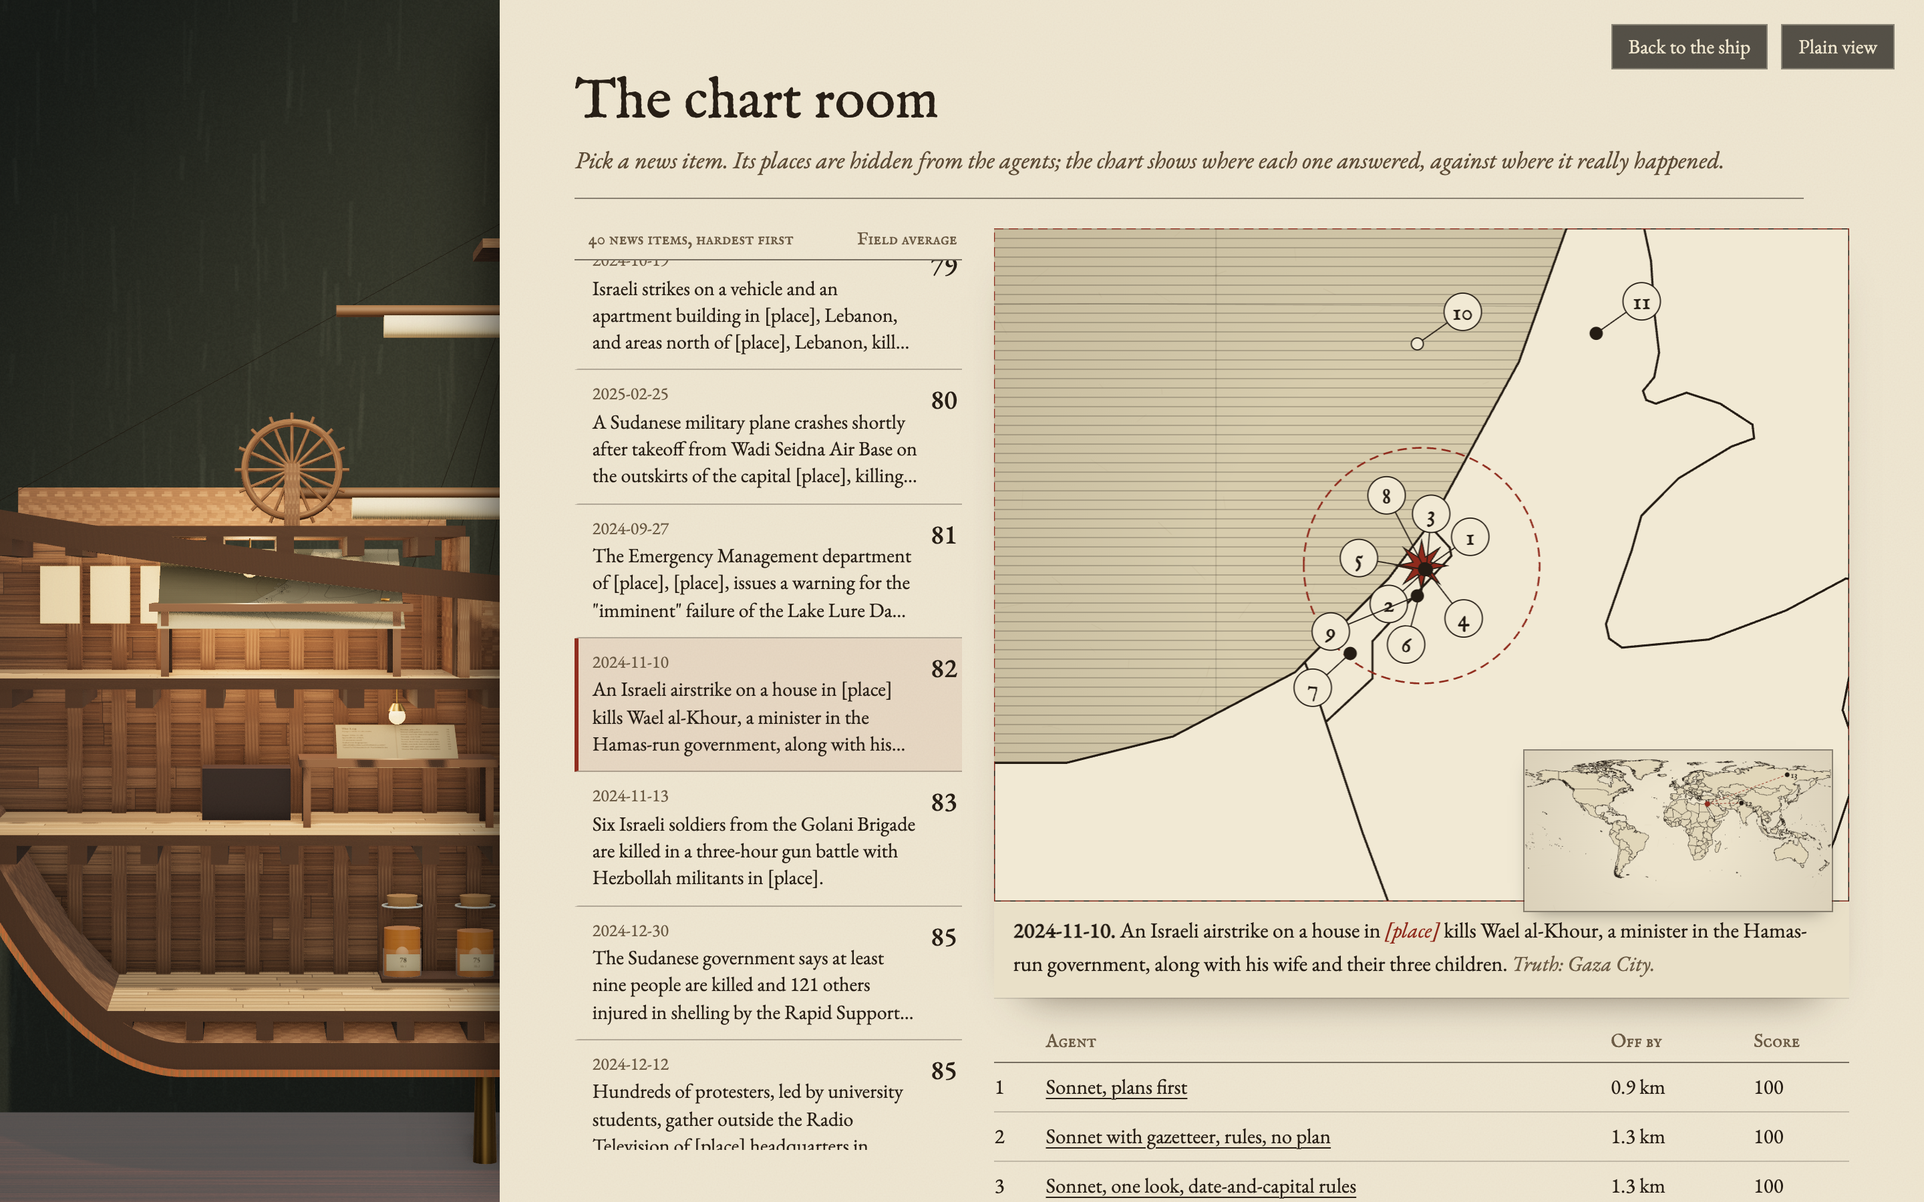
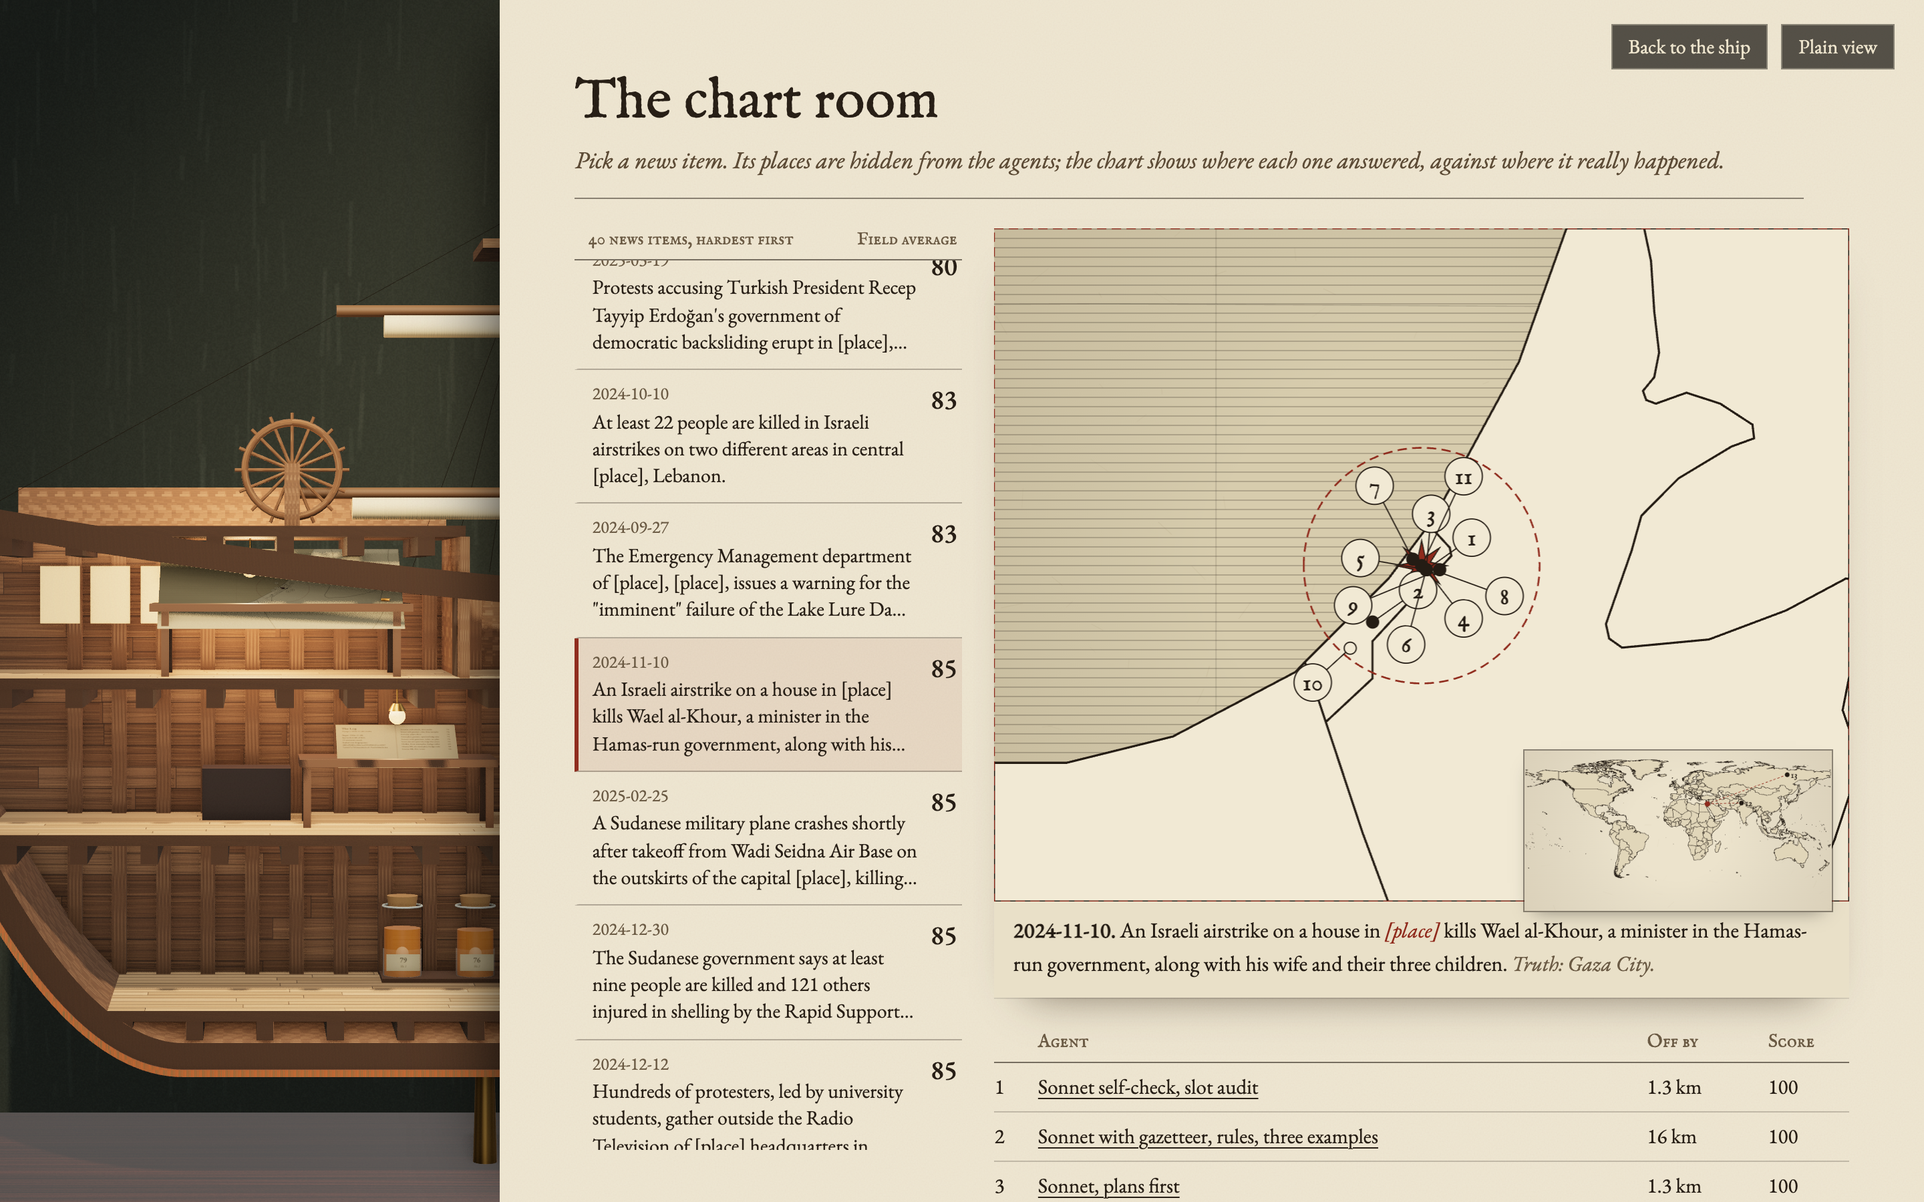
Voyage 2 in the README; the fossil locker and its tag tell the truth; the lineage fits three generations; the server survives a malformed path

diff --git a/app/src/rooms.ts b/app/src/rooms.ts
@@ -84,7 +84,9 @@ async function drawingRoom(el: HTMLElement, c: Ctx) {
 async function lineage(el: HTMLElement, c: Ctx) {
   const nodes = await api<Node[]>(`/voyages/${c.voyage.id}/lineage`, []);
   const gens = [...new Set(nodes.map(n => n.generation))].sort((a, b) => a - b);
-  const colW = 440, rowH = 92, top = 70, H = top + Math.max(...gens.map(g => nodes.filter(n => n.generation === g).length)) * rowH + 30, W = gens.length * colW + 40;
+  // columns share the folio's width; past about four generations the journal scrolls sideways
+  const avail = Math.max(600, el.clientWidth - 40), colW = Math.max(300, Math.min(440, Math.floor((avail - 30) / gens.length))), nodeW = colW - 120;
+  const rowH = 92, top = 70, H = top + Math.max(...gens.map(g => nodes.filter(n => n.generation === g).length)) * rowH + 30, W = gens.length * colW + 40;
   const pos = new Map<string, { x: number; y: number }>();
   gens.forEach((g, gi) => nodes.filter(n => n.generation === g).sort((a, b) => (b.mean ?? -1) - (a.mean ?? -1)).forEach((n, i) => pos.set(`${g}:${n.id}`, { x: 30 + gi * colW, y: top + i * rowH })));
   const hasChild = new Set(nodes.flatMap(n => n.parents.map(p => `${n.generation - 1}:${p}`)).concat(nodes.filter(n => n.kept).map(n => `${n.generation - 1}:${n.id}`)));
@@ -92,13 +94,13 @@ async function lineage(el: HTMLElement, c: Ctx) {
   let lines = '';
   for (const n of nodes) {
     const to = pos.get(`${n.generation}:${n.id}`)!;
-    for (const p of n.kept ? [n.id] : n.parents) { const from = pos.get(`${n.generation - 1}:${p}`); if (!from) continue; const x0 = from.x + 266, y0 = from.y + 26, x1 = to.x - 6, y1 = to.y + 26, mx = (x0 + x1) / 2; lines += `<path d="M${x0},${y0} C${mx},${y0} ${mx},${y1} ${x1},${y1}" class="${n.kept ? 'kept' : ''}"/>`; }
+    for (const p of n.kept ? [n.id] : n.parents) { const from = pos.get(`${n.generation - 1}:${p}`); if (!from) continue; const x0 = from.x + nodeW + 6, y0 = from.y + 26, x1 = to.x - 6, y1 = to.y + 26, mx = (x0 + x1) / 2; lines += `<path d="M${x0},${y0} C${mx},${y0} ${mx},${y1} ${x1},${y1}" class="${n.kept ? 'kept' : ''}"/>`; }
   }
   el.innerHTML = `<nav class="pages"><a href="#/drawing">The plates</a><a class="on" href="#/drawing/lineage">The lineage</a></nav>${head('The lineage', `Every agent of the voyage, one column per generation, best at the top. A line joins each agent to the ones it was bred from; a double line means it was kept unchanged. Agents with no line onward died out.`)}
-  <div class="journal"><div class="cols">${gens.map((g, gi) => `<div class="colhead" style="left:${30 + gi * colW}px">Generation ${g + 1}<small>best ${best(g) >= 0 ? pct(best(g)) : 'not raced'}</small></div>`).join('')}</div>
+  <div class="journal-wrap"><div class="journal" style="--node-w:${nodeW}px"><div class="cols">${gens.map((g, gi) => `<div class="colhead" style="left:${30 + gi * colW}px">Generation ${g + 1}<small>best ${best(g) >= 0 ? pct(best(g)) : 'not raced'}</small></div>`).join('')}</div>
   <svg class="ink" width="${W}" height="${H}" viewBox="0 0 ${W} ${H}">${lines}</svg>
   ${nodes.map(n => { const p = pos.get(`${n.generation}:${n.id}`)!, dead = n.generation < gens.at(-1)! && !hasChild.has(`${n.generation}:${n.id}`); return `<a class="node ${dead ? 'dead' : ''}" style="left:${p.x}px;top:${p.y}px" href="#/drawing/${encodeURIComponent(n.id)}" title="${esc(n.reason ?? '')}"><canvas width="104" height="104" data-n="${esc(n.id)}"></canvas><span><b>${esc(n.name)}</b><em>${n.mean === null ? 'racing' : pct(n.mean)}</em></span></a>`; }).join('')}
-  </div>
+  </div></div>
   ${nodes.filter(n => n.generation > 0 && !n.kept).length ? `<h2 class="why">Why each child was made</h2><ol class="reasons">${nodes.filter(n => n.generation > 0 && !n.kept).map(n => `<li><b>${esc(n.name)}</b>, from ${n.parents.map(p => esc(nodes.find(x => x.id === p)?.name ?? p)).join(' and ')}: ${esc(n.reason ?? '')}</li>`).join('')}</ol>` : '<p class="soft">Only the first generation has raced so far. The designer breeds the next one from what it can see of this one.</p>'}`;
   el.querySelector<HTMLElement>('.journal')!.style.height = `${H}px`; el.querySelector<HTMLElement>('.journal')!.style.width = `${W}px`;
   el.querySelectorAll<HTMLCanvasElement>('.node canvas').forEach(cv => { const n = nodes.find(x => x.id === cv.dataset.n)!; const k = cv.getContext('2d')!; organism(k, n.genome ? { ...n.genome, id: n.id } : { id: n.id, tools: [], workflow: { shape: 'control' }, memory: { examples: 0 }, model: 'none' }, 52, 52, 30); });

diff --git a/app/src/main.ts b/app/src/main.ts
@@ -28,6 +28,7 @@ const genN = full?.generations.filter(g => g.generation >= 0).at(-1)?.generation
 const gen = full ? await api<Generation>(`/voyages/${full.id}/generations/${genN}`) : null;
 const telling = full ? await api<Telling | null>(`/voyages/${full.id}/generations/${genN}/telling`, null) : null;
 const es = gen ? entrants(gen) : [];
+const fossilRecords = full ? await api<{ name: string; race: { score: number; teacher: number } }[]>(`/voyages/${full.id}/fossils`, []) : [];
 
 const { ship, lamps } = buildShip(room);
 if (full && gen) furnish(room, ship, { voyage: full, entrants: es, telling, generation: genN });
@@ -39,7 +40,7 @@ const TAGS: Record<RoomId, { name: string; line: string }> = {
   drawing: { name: 'The drawing room', line: lead ? `Leading: ${lead.name}, ${pct(lead.mean)} of 100` : 'No agents drawn yet' },
   specimens: { name: 'The hold', line: `${es.filter(e => !e.control).length} agents and ${es.filter(e => e.control).length} controls, each in its jar` },
   log: { name: 'The log', line: full ? `$${full.spent.toFixed(2)} spent; the sealed test fingerprinted` : 'No voyage yet' },
-  fossils: { name: 'The fossil locker', line: 'Empty: no skill has been fossilised yet' },
+  fossils: { name: 'The fossil locker', line: fossilRecords.length ? fossilRecords.map(f => `${f.name}: ${pct(f.race.score)} against its teacher's ${pct(f.race.teacher)}`).join('; ') : 'Empty: no skill has been fossilised yet' },
   settings: { name: 'The forecastle', line: 'Settings' },
 };
 const layer = document.getElementById('tags')!;

diff --git a/tools/ui-test.ts b/tools/ui-test.ts
@@ -24,6 +24,8 @@ try {
   const tags = await page.$$eval('.tag', els => els.map(e => e.textContent ?? ''));
   expect('the ship has a tag for each of its six rooms', tags.length === 6, tags.map(t => t.split(/[A-Z]/)[0]).join(''));
   expect('the drawing room tag names the real leader and score', tags.some(t => t.includes(leadName) && t.includes(String(pct(lead.mean)))), `${leadName} ${pct(lead.mean)}`);
+  const fossilsNow = await api(`/voyages/${v.id}/fossils`);
+  expect('the fossil locker tag tells the truth about its fossils', fossilsNow.length ? tags.some(t => fossilsNow.every((f: any) => t.includes(`${f.name}: ${pct(f.race.score)}`))) : tags.some(t => t.includes('Empty')));
   expect('the log tag shows the real spend', tags.some(t => t.includes(`$${full.spent.toFixed(2)}`)));
   const plaque = await page.textContent('#plaque');
   expect('the plaque gives the real run count', plaque!.includes(`${gen.runs} runs`), plaque!.slice(0, 90));

diff --git a/test/server.test.ts b/test/server.test.ts
@@ -112,3 +112,11 @@ test('minor: a voyage on local models only expects runs from the controls it rea
   // the one-Claude-call control is left out on a local-only voyage, so two controls, not three
   assert.equal(g.expected, (g.genomes.length + 2) * 4);
 });
+
+test('a malformed path is refused, and the server keeps running', async () => {
+  const { request } = await import('node:http');
+  const port = (server.address() as { port: number }).port;
+  const status = await new Promise<number>((ok, fail) => { const r = request({ host: '127.0.0.1', port, path: '//' }, res => { res.resume(); ok(res.statusCode!); }); r.on('error', fail); r.end(); });
+  assert.equal(status, 400);
+  assert.equal((await fetch(`${base}/api/settings`)).status, 200);
+});

diff --git a/app/index.html b/app/index.html
@@ -102,7 +102,8 @@
   svg.ink { position: absolute; left: 0; top: 0; }
   svg.ink path { fill: none; stroke: #241c14; stroke-width: 1; opacity: .7; }
   svg.ink path.kept { stroke-width: 3; opacity: .55; }
-  .node { position: absolute; display: flex; align-items: center; gap: 4px; width: 260px; text-decoration: none; }
+  .journal-wrap { overflow-x: auto; overflow-y: visible; padding-bottom: 8px; }
+  .node { position: absolute; display: flex; align-items: center; gap: 4px; width: var(--node-w, 260px); text-decoration: none; }
   .journal { padding-right: 20px; }
   .node canvas { width: 52px; height: 52px; }
   .node span { display: grid; font-size: 14.5px; line-height: 1.25; }

diff --git a/src/server.ts b/src/server.ts
@@ -146,7 +146,8 @@ async function file(res: ServerResponse, p: string) {
 
 export function serve(port = PORT): Server {
   const server = createServer(async (req, res) => {
-    const url = new URL(req.url ?? '/', 'http://x');
+    let url: URL;
+    try { url = new URL(req.url ?? '/', 'http://x'); } catch { res.writeHead(400); return res.end(); }
     const host = (req.headers.host ?? '').replace(/:\d+$/, '');
     if (!['127.0.0.1', 'localhost', '[::1]'].includes(host)) { res.writeHead(403); return res.end(); }
     if (req.method !== 'GET' && req.headers['x-beagle'] !== '1') return send(res, 403, { error: 'writes need the x-beagle header' });

diff --git a/README.md b/README.md
@@ -9,7 +9,7 @@
 <img alt="fossils" src="https://img.shields.io/badge/fossils-trained_on_this_Mac_with_MLX-8f2a1c?style=for-the-badge&labelColor=14110d"/>
 <br/>
 <img alt="proof" src="https://img.shields.io/badge/every_score-re--gradable_with_no_model_calls-b08a4a?style=for-the-badge&labelColor=14110d"/>
-<img alt="tests" src="https://img.shields.io/badge/tests-61_engine_%C2%B7_23_in_the_browser-8f2a1c?style=for-the-badge&labelColor=14110d"/>
+<img alt="tests" src="https://img.shields.io/badge/tests-74_engine_%C2%B7_25_in_the_browser-8f2a1c?style=for-the-badge&labelColor=14110d"/>
 <a href="LICENSE"><img alt="license" src="https://img.shields.io/badge/license-MIT-b08a4a?style=for-the-badge&labelColor=14110d"/></a>
 <br/>
 <img alt="engine" src="https://img.shields.io/badge/engine-TypeScript_%C2%B7_Node_22_%C2%B7_node%3Asqlite-7d7262?style=flat-square&labelColor=14110d"/>
@@ -22,7 +22,7 @@
 &nbsp;
 
 <a href="#what-it-does"><kbd> &nbsp; <strong>What it does</strong> &nbsp; </kbd></a> &nbsp;
-<a href="#the-first-voyage"><kbd> &nbsp; <strong>The first voyage</strong> &nbsp; </kbd></a> &nbsp;
+<a href="#the-voyage"><kbd> &nbsp; <strong>The voyage</strong> &nbsp; </kbd></a> &nbsp;
 <a href="#the-ship"><kbd> &nbsp; <strong>The ship</strong> &nbsp; </kbd></a> &nbsp;
 <a href="#why-you-can-trust-the-numbers"><kbd> &nbsp; <strong>Why you can trust the numbers</strong> &nbsp; </kbd></a> &nbsp;
 <a href="#run-it"><kbd> &nbsp; <strong>Run it</strong> &nbsp; </kbd></a>
@@ -47,21 +47,23 @@ All of it happens inside a museum section model of HMS Beagle, the ship Darwin s
 
 **Fossils.** The winner answers hundreds of unlabelled items. A local embedding model turns each item into numbers, and MLX trains a two-layer network to answer the way the winner did. The fossil is then judged on the same race items as everyone else, and reported straight, including when it is worse.
 
-## The first voyage
+## The voyage
 
-Everything here is from one real voyage, `v-2026-11-08-e1e972`, raced on 2026-11-08 for $17.22.
+Everything here is from one real voyage, `v-2026-11-08-c5c0ba`: three generations raced on 2026-11-08 for $13.88 of Claude usage. Every agent and control in a generation answered the same 40 news items.
 
-**Generation one** raced twelve hand-written agents. Sonnet answering in one go led at 75 out of 100, placing 23 of 40 items within 25 km. A free local Llama 8B scored 56. Two designs collapsed: Llama with the gazetteer answered only 5 of 40 items.
+**Generation one** raced twelve hand-written agents. It hit its $5 cap with three items left, so it is scored on the 37 items every entrant finished. Sonnet answering in one go led at 71, placing 17 of 37 items within 25 km. A free local Llama 8B scored 59, level with most of the Haiku designs. Llama with the gazetteer answered only 7 items in 37, and the 1.7B Qwen models placed nothing within 25 km.
 
-**The controls told the first story.** One plain question to Claude scored 28, because with the places hidden, Haiku refuses to guess: *"I cannot reliably identify the specific location of this incident... providing coordinates would risk giving you inaccurate information."* The winning agents are told to reason from every clue that is left (the people, the groups, the institutions, the date) and to commit.
+**The controls told the first story.** One plain question to Claude scored 44, because with the places hidden, Haiku often refuses to guess: *"I cannot reliably identify the specific location of this incident... providing coordinates would risk giving you inaccurate information."* The winning agents are told to reason from every clue that is left (the people, the groups, the institutions, the date) and to commit.
 
-**Generation two** was written by the designer from evidence like this, quoted from its reasons:
+**Generations two and three** were written by the designer. Its reasons point at real misses, quoted here:
 
-> Best agent lost points by answering a sub-region for 'southeastern [place]' (Switzerland, 68 km), by missing that [place] = government → Jakarta (3467 km), by stereotyping a Luzon ambush as Mindanao (1118 km)...
+> The best agent missed by 3,500 km on the Jakarta item because it read 'accuses [place]' as Papua rather than the government. It missed by 9,400 km on the Swiss landslides by defaulting to China, and by 1,000 km on the Philippine ambush by guessing Mindanao.
 
-It crossed Sonnet with the worked examples that had lifted Haiku, and that child, *Sonnet, sharper rules, four examples*, scored 77.8, the voyage's best. Its range (68 to 87) still overlaps the old leader's, so Beagle does not call it a clear win. That is the point of the ranges.
+The voyage's best is generation three's *Sonnet self-check, slot audit* at 79 (range 69 to 87), bred to catch exactly those traps with a second look. But the plain result is a plateau, not a climb. *Sonnet, plans first* was kept unchanged through all three generations and scored 70, then 78, then 76 on the same design. With 40 items, a score moves about 8 points from noise alone, so no bred child has yet clearly beaten its parent. Beagle shows the ranges, and only calls a win when they separate. What did move was the field: by generation three, six Sonnet designs sat between 72 and 79, where generation one had two Sonnets at 70 and 71.
 
-**The first fossil** learned from 710 items its teacher answered plus 4,383 breeding items with their true places: a 2.4 MB network, trained in under a minute, answering in 16 ms with nothing to pay. It scores 30 against its teacher's 75, so it does not stand in for it, and the fossil locker says so. It does beat both text-reading controls.
+**The fossil.** Llama 8B, careful answered 800 unlabelled items for free. Those answers, plus 4,383 practice items with their true places, trained a 2.4 MB network in 3.3 seconds. It answers in 0.18 ms (16 ms with the embedding) and costs nothing to run. It scores 34 against its teacher's 59, so it does not stand in for it, and the fossil locker says so.
+
+**Two earlier voyages were withdrawn,** and the log keeps them with the reason. The first used an easier arena that named the places, and every agent scored near the top. The second, $21.92 of runs, had a fault the final review found: agents written to see no worked examples were shown eight. Its results described agents that did not match their designs, so they were thrown out and the voyage above was run from scratch.
 
 <img src="docs/media/chart-room.jpg" alt="The chart room: a list of news items, hardest first; an engraved chart of the Levant with every agent's answer numbered around a red star where the item really happened; a table of how far off each agent was" />
 
@@ -73,10 +75,12 @@ The home screen is the model. Point at a room, or its label, and the camera goes
 - **The drawing room** draws every agent as an engraved organism. Its body is how its steps are wired, spines mean it may use the gazetteer, seeds are worked examples, and the bar beneath is its score with the fine line of its likely range. The lineage page draws the whole voyage as a family tree in ink, with the designer's reason for every child.
 - **The hold** keeps a jar per agent, filled to its score, and a plain ledger of the field.
 - **The log** holds the proof (below).
-- **The fossil locker** shows each fossil pressed into stone, its training curve cut as strata.
+- **The fossil locker** shows each fossil pressed into stone: its training curve is cut as strata, and the pass that was kept is marked.
 - **The forecastle** is Settings: caps, models, evolution, plain or lab view.
 
-Every number on every screen comes from the local API, and a browser test checks 23 of them against it. Plain view explains every number in words; lab view adds cost, time, ranks and raw answers. Every term of art has its meaning a hover away.
+Every number on every screen comes from the local API, and a browser test checks 25 things against it. Plain view explains every number in words; lab view adds cost, time, ranks and raw answers. Every term of art has its meaning a hover away.
+
+<img src="docs/media/fossils.jpg" alt="The fossil locker: a limestone slab with the fossil's training curve cut as strata and an ammonite marking the kept pass; beside it the fossil's score against its teacher, its size and speed" />
 
 <img src="docs/media/lineage.jpg" alt="The drawing room's lineage page: generations as columns of small engraved organisms, ink lines joining each child to its parents, and the designer's reasons below" />
 
@@ -86,9 +90,10 @@ Every number on every screen comes from the local API, and a browser test checks
 - **The designer never sees race or sealed items,** and a test checks that no race or sealed text reaches its prompt.
 - **Controls see exactly what agents see.** Getting this wrong once made the controls look far stronger than they are. The fix has a test, and the wrong runs were thrown away and redone.
 - **Ranges, not just scores.** Every score has a 95% bootstrap interval, and Beagle only calls one agent better than another when the ranges separate.
-- **Re-grade it yourself.** `beagle export` writes a voyage as one file, and `beagle regrade` re-scores every answer from it with no model calls. On this voyage, every recorded score matched.
+- **Re-grade it yourself.** `beagle export` writes a voyage as one file, and `beagle regrade` re-scores every answer from it with no model calls. On this voyage, every recorded score matched. A run whose item is missing from the file is counted as a mismatch, never as a pass.
 - **Every call paid for is in the ledger,** including runs that were later thrown away. A spend cap holds per generation and per voyage, and one race per generation can run at a time. (Before that rule, a second process paid for the same runs twice. The log shows the money.)
-- **Memorisation is reported.** Two answers matched Wikidata's coordinate for southern Lebanon to six decimals. The run's full record shows no access to it: Sonnet recalled it from Wikipedia.
+- **A usage limit is not a fault.** When Claude's limit is hit, the race stops, keeps every finished run, and the same command picks up where it left off.
+- **Memorisation is reported.** In the withdrawn second voyage, two answers matched Wikidata's coordinate for southern Lebanon to six decimals. The run's full record shows no access to it: Sonnet recalled it from Wikipedia.
 
 ## Run it
 
@@ -112,8 +117,8 @@ Claude calls go through your own Claude Code, with your settings, plugins and MC
 ## Tests
 
 ```sh
-npm test                  # 61 engine tests: arena, runner, races, caps, locks, designer, fossils, API
-npx tsx tools/ui-test.ts  # 23 checks of the ship and its rooms against the live API
+npm test                  # 74 engine tests: arena, runner, races, caps, locks, designer, fossils, API
+npx tsx tools/ui-test.ts  # 25 checks of the ship and its rooms against the live API
 ```
 
 ## Data
